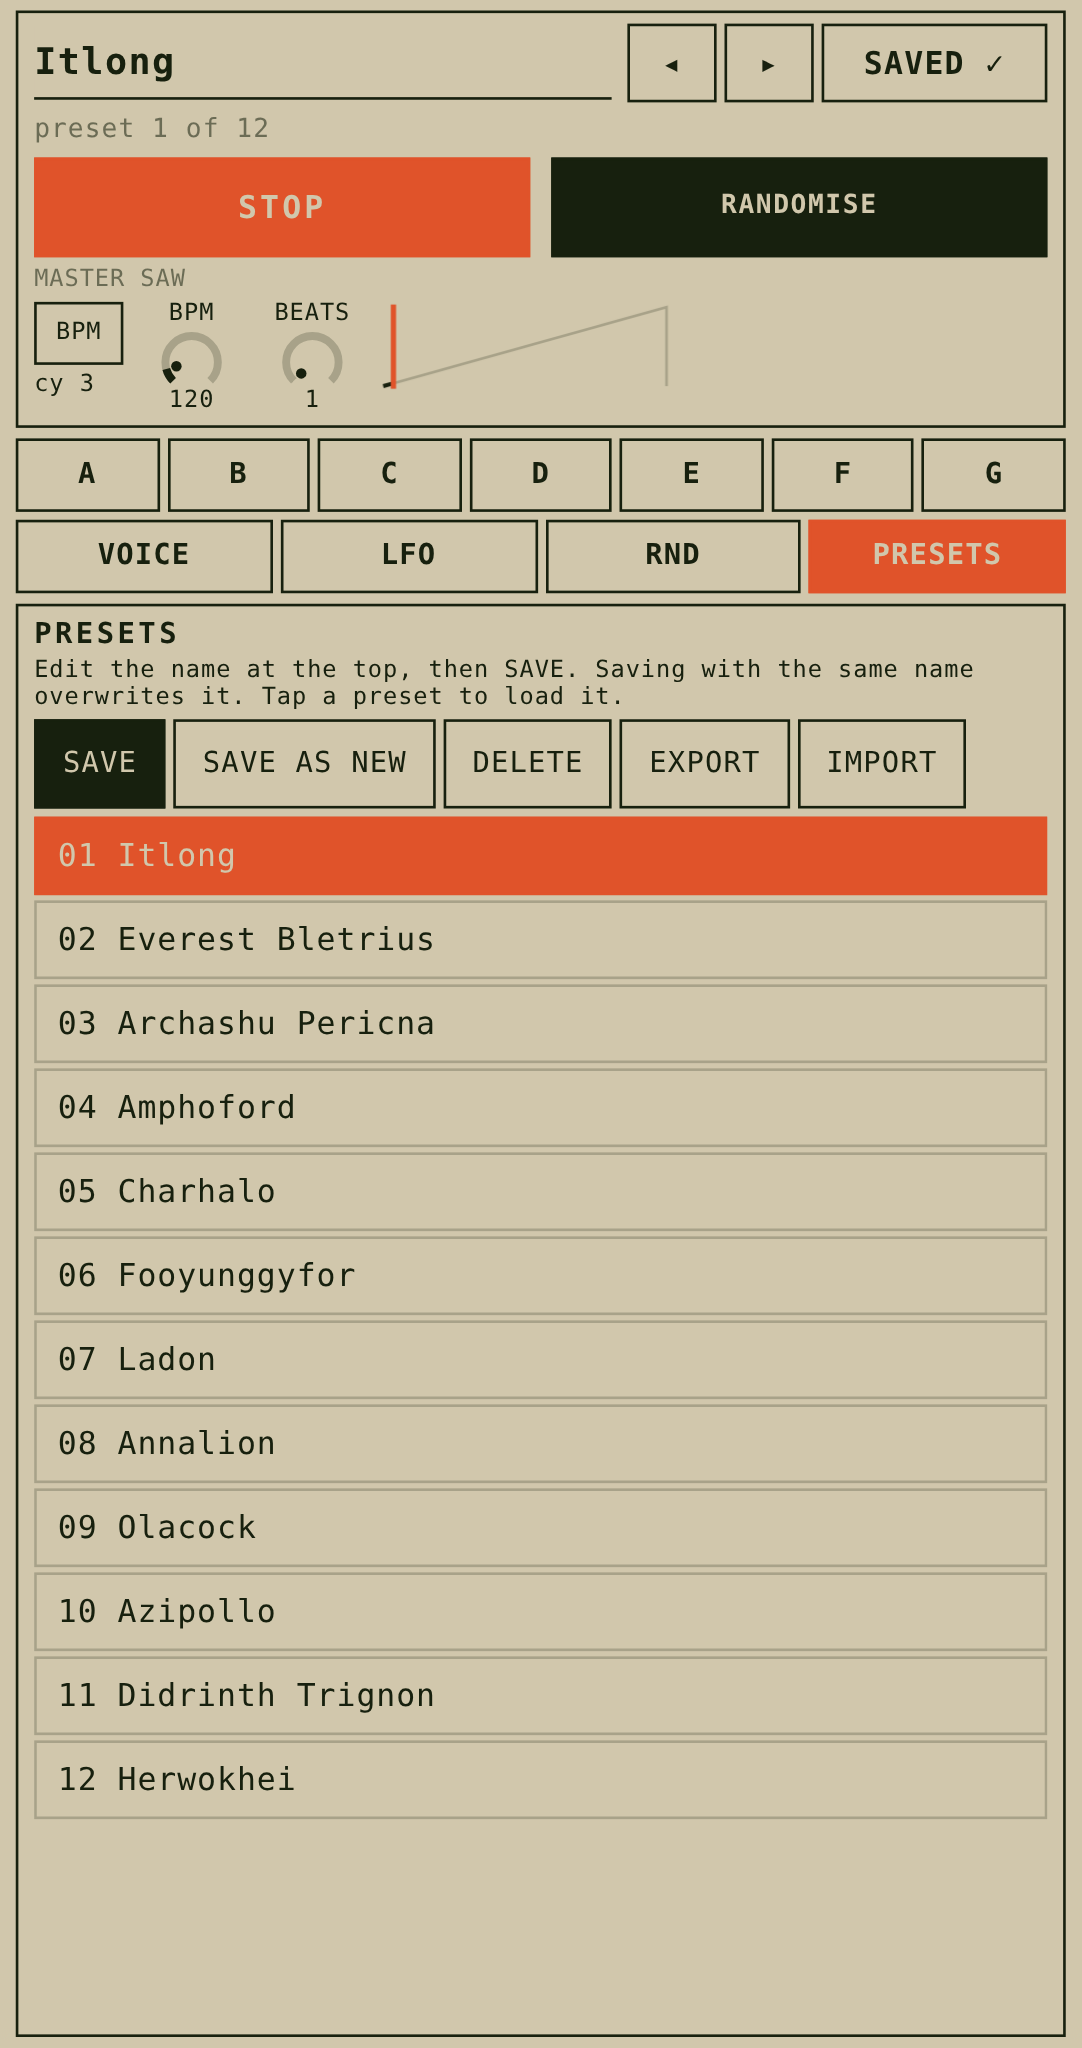
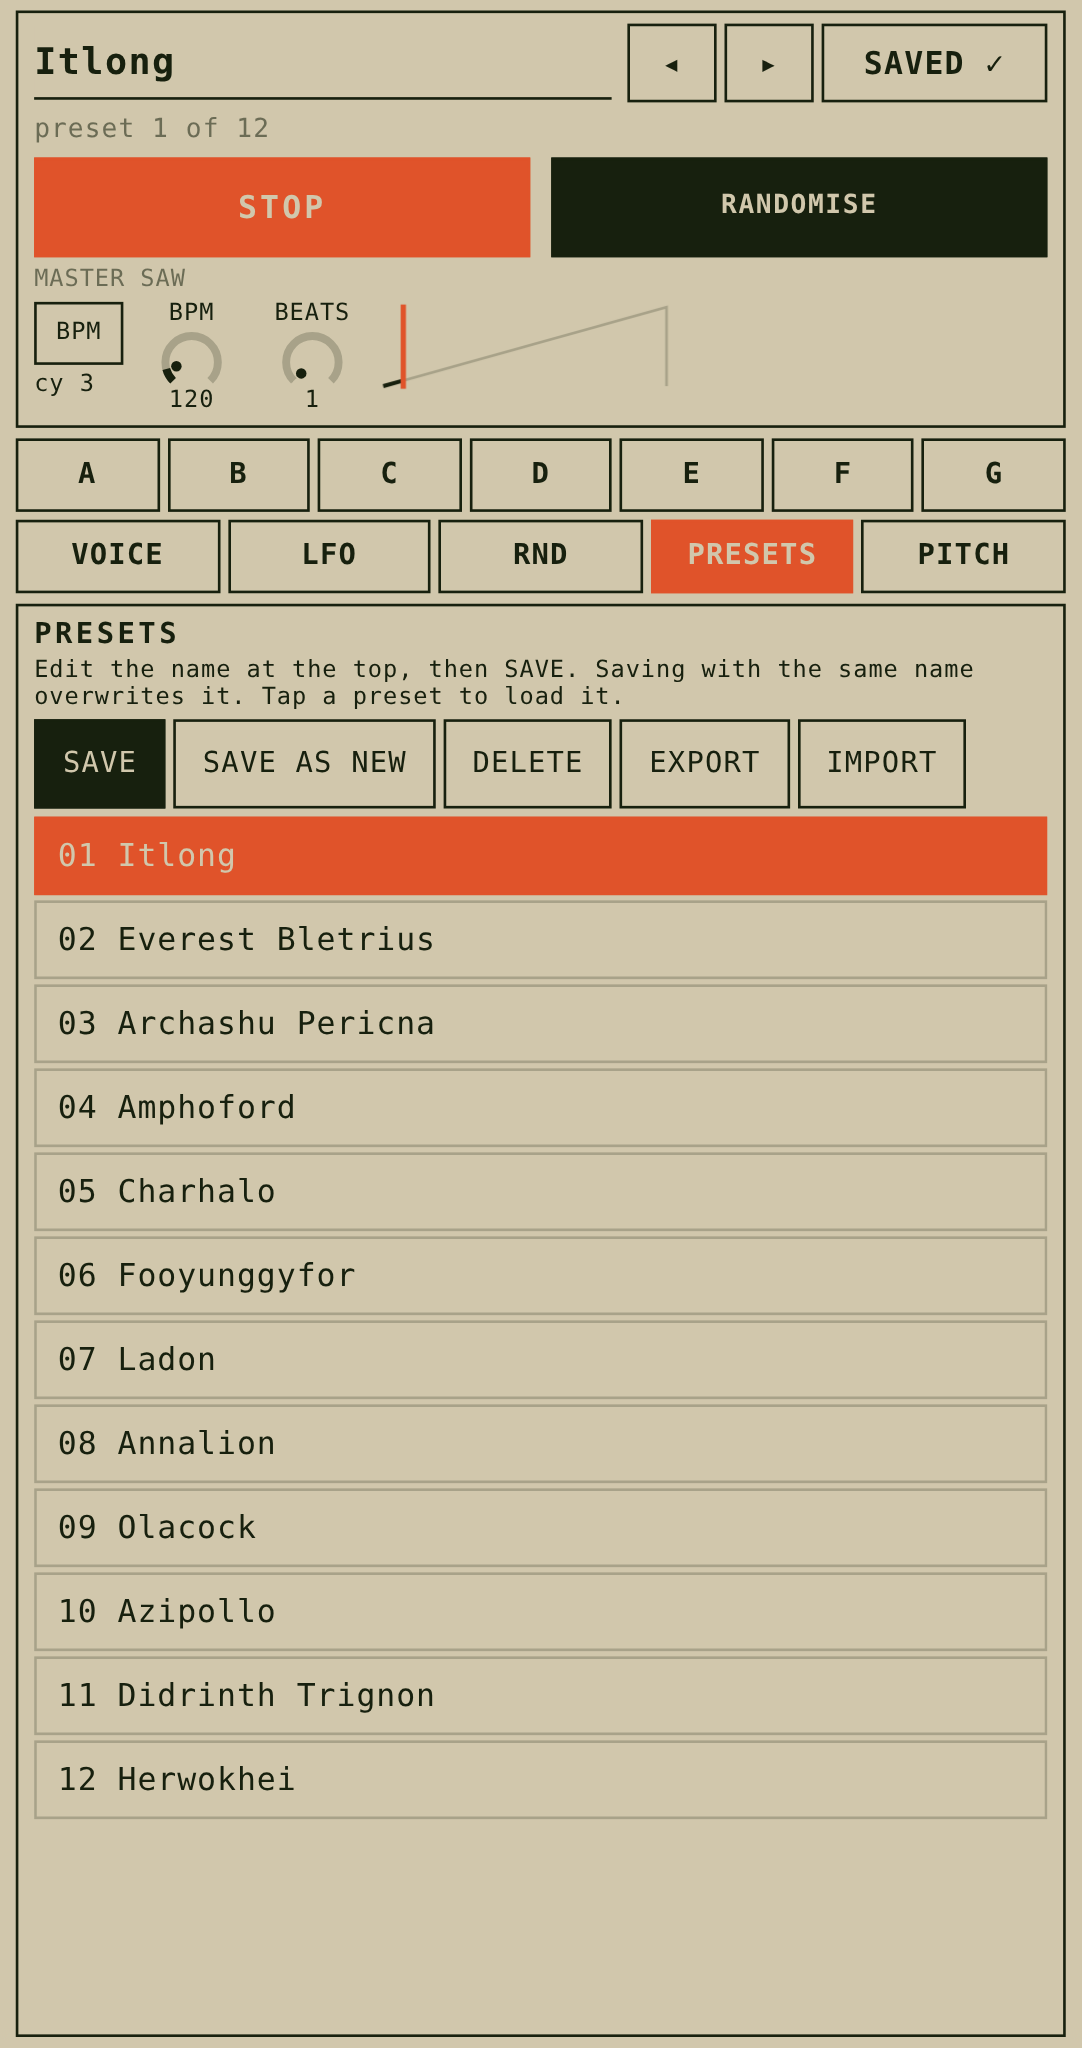
Pitch page: long-throw operator pitch faders with slew
Claude-Session: https://claude.ai/code/session_018ENZqT8uPXUg66LybqJ133

diff --git a/ui/app.js b/ui/app.js
@@ -7,7 +7,7 @@ import { SHAPES, shapeValue } from '../dsp/shapes.js';
 import { Rng, hashSeed } from '../dsp/rng.js';
 import { randomizePath, randomizeSection, fillSteps, rndLocks, rndAll, morphPatches, randomLockValue, randomizeEverything } from '../dsp/random.js';
 import { presetName } from './names.js';
-import { el, knob, selector, toggle, button, hiCanvas, toNorm, fromNorm } from './widgets.js';
+import { el, knob, selector, toggle, button, hiCanvas, toNorm, fromNorm, RATIO_STEPS } from './widgets.js';
 
 const C = { ink: '#17200e', spot: '#e0532a', dim: 'rgba(23,32,14,0.22)', faint: 'rgba(23,32,14,0.10)', bg: '#d1c7ac', mid: 'rgba(23,32,14,0.55)' };
 const NOTE = ['C', 'C#', 'D', 'D#', 'E', 'F', 'F#', 'G', 'G#', 'A', 'A#', 'B'];
@@ -178,6 +178,9 @@ const startBtn = button(top, 'START', startStop, 'space');
 startBtn.id = 'start';
 const bigRnd = button(top, 'RANDOMISE', () => randomiseAll(), 'randomise everything, ignoring locks, with a new name (R)');
 bigRnd.id = 'bigrnd';
+const pitchBtn = button(top, 'PITCH', () => { document.getElementById('app').classList.toggle('pitch-open'); refreshAll(); }, 'operator pitch faders');
+pitchBtn.id = 'pitchbtn';
+ctx.register(() => pitchBtn.classList.toggle('on', document.getElementById('app').classList.contains('pitch-open')));
 ctx.register(() => { startBtn.textContent = ui.running ? 'STOP' : 'START'; startBtn.classList.toggle('spot', ui.running); });
 el('div', 'sep', top);
 
@@ -641,10 +644,114 @@ const gateEls = Array.from({ length: MAX_STEPS }, (_, k) => {
 });
 ctx.register(() => gateEls.forEach((g, k) => { g.classList.toggle('on', !!patch.clock.gate[k]); g.classList.toggle('off-len', k >= patch.clock.gateLen); }));
 
+// ---------------- pitch faders ----------------
+const pitchEl = document.getElementById('pitch');
+pitchEl.classList.add('panel');
+const ph = el('div', 'row', pitchEl); ph.style.alignItems = 'flex-end'; ph.style.gap = '8px';
+el('div', 'title', ph, 'operator pitch');
+knob(ctx, ph, { path: 'voice.pitchSlew', label: 'slew', fmt: (v) => (v < 1 ? (v * 1000).toFixed(0) + 'ms' : v.toFixed(2) + 's') });
+ui.pitchSnap = false;
+const snapT = el('div', 'tog off', ph, 'snap');
+snapT.title = 'snap ratios to harmonic steps';
+snapT.addEventListener('pointerdown', () => { ui.pitchSnap = !ui.pitchSnap; snapT.classList.toggle('on', ui.pitchSnap); snapT.classList.toggle('off', !ui.pitchSnap); });
+button(ph, 'rnd', () => {
+  pushUndo();
+  const r = uiRng();
+  for (const op of patch.ops) {
+    if (r.next() >= patch.rnd.amount) continue;
+    if (op.ratioMode === 'fixed') op.fixedHz = Math.round(Math.exp(r.range(Math.log(40), Math.log(4000))));
+    else op.ratio = ui.pitchSnap ? RATIO_STEPS[r.int(RATIO_STEPS.length)] : Math.round(Math.exp(r.range(Math.log(0.5), Math.log(16))) * 1000) / 1000;
+  }
+  changed(true);
+}, 'randomise operator pitches (glides with slew)');
+const pHint = el('div', 'val', ph, 'drag a fader · the orange line is the gliding pitch · dbl-tap resets');
+pHint.style.color = C.mid; pHint.style.whiteSpace = 'normal';
+const faders = hiCanvas(pitchEl, 'faders');
+const RATIO_SPEC = { type: 'log', min: 0.5, max: 16 }, HZ_SPEC = { type: 'log', min: 20, max: 8000 };
+function faderSpec(i) { return patch.ops[i].ratioMode === 'fixed' ? HZ_SPEC : RATIO_SPEC; }
+function faderGeom() {
+  const w = faders._w, h = faders._h;
+  return { w, h, cw: w / NUM_OPS, top: 30, bot: h - 22 };
+}
+const faderPointers = new Map();
+function faderSet(e, col) {
+  const g = faderGeom();
+  const r = faders.getBoundingClientRect();
+  const n = (g.bot - (e.clientY - r.top)) / (g.bot - g.top);
+  const op = patch.ops[col];
+  let v = fromNorm(faderSpec(col), n);
+  if (op.ratioMode === 'fixed') { op.fixedHz = Math.round(v * 10) / 10; }
+  else {
+    if (ui.pitchSnap) v = RATIO_STEPS.reduce((b, x) => (Math.abs(Math.log(x / v)) < Math.abs(Math.log(b / v)) ? x : b), RATIO_STEPS[0]);
+    op.ratio = Math.round(v * 1000) / 1000;
+  }
+  changed(true);
+}
+faders.addEventListener('pointerdown', (e) => {
+  const r = faders.getBoundingClientRect();
+  const col = Math.max(0, Math.min(NUM_OPS - 1, Math.floor((e.clientX - r.left) / faderGeom().cw)));
+  pushUndo();
+  faderPointers.set(e.pointerId, col);
+  faders.setPointerCapture(e.pointerId);
+  faderSet(e, col);
+  e.preventDefault();
+});
+faders.addEventListener('pointermove', (e) => { if (faderPointers.has(e.pointerId)) faderSet(e, faderPointers.get(e.pointerId)); });
+const faderUp = (e) => faderPointers.delete(e.pointerId);
+faders.addEventListener('pointerup', faderUp);
+faders.addEventListener('pointercancel', faderUp);
+faders.addEventListener('dblclick', (e) => {
+  const r = faders.getBoundingClientRect();
+  const col = Math.floor((e.clientX - r.left) / faderGeom().cw);
+  const op = patch.ops[col]; if (!op) return;
+  if (op.ratioMode === 'fixed') op.fixedHz = 440; else op.ratio = defaultPatch().ops[col].ratio;
+  changed(true);
+});
+function drawFaders() {
+  const c = faders, g = c.getContext('2d'), geo = faderGeom();
+  if (!geo.w) return;
+  const dpr = c._dpr || 1;
+  g.setTransform(dpr, 0, 0, dpr, 0, 0);
+  g.fillStyle = C.bg; g.fillRect(0, 0, geo.w, geo.h);
+  const st = ui.state, live = ui.running && !!st;
+  const H = geo.bot - geo.top;
+  const nseg = Math.max(10, Math.floor(H / 5));
+  const alg = ALGORITHMS[patch.voice.algorithm];
+  g.textBaseline = 'top'; g.textAlign = 'center';
+  for (let i = 0; i < NUM_OPS; i++) {
+    const op = patch.ops[i], sp = faderSpec(i);
+    const x0 = i * geo.cw, cx = x0 + geo.cw / 2;
+    const tw = Math.min(54, geo.cw - 12);
+    const n = toNorm(sp, op.ratioMode === 'fixed' ? op.fixedHz : op.ratio);
+    for (let q = 0; q < nseg; q++) {
+      const y = geo.bot - (q + 1) * (H / nseg);
+      const on = (q + 0.5) / nseg <= n;
+      g.fillStyle = on ? C.ink : C.faint;
+      g.fillRect(cx - tw / 2, y + 1, tw, H / nseg - 1.5);
+    }
+    // the gliding pitch the engine is playing right now
+    const now = live ? st[3 + i * 6 + 5] : 0;
+    if (now > 0) {
+      const y = geo.bot - H * Math.min(1, Math.max(0, toNorm(sp, now)));
+      g.fillStyle = C.spot; g.fillRect(cx - tw / 2 - 5, y - 1.5, tw + 10, 3);
+    }
+    g.fillStyle = C.ink;
+    g.font = '700 16px ui-monospace, Menlo, monospace';
+    g.fillText(OP_NAMES[i], cx, 2);
+    g.font = '9px ui-monospace, Menlo, monospace';
+    g.fillStyle = C.mid;
+    g.fillText(alg.carriers.includes(i) ? 'carrier' : 'mod', cx, 19);
+    g.fillStyle = C.ink;
+    g.font = '11px ui-monospace, Menlo, monospace';
+    g.fillText(op.ratioMode === 'fixed' ? op.fixedHz.toFixed(0) + 'hz' : '×' + op.ratio.toFixed(op.ratio < 10 ? 3 : 2), cx, geo.bot + 6);
+  }
+  g.textAlign = 'start';
+}
+
 // ---------------- phone tabs ----------------
 for (const g of [voiceG, algoG, outG]) g.parentElement.dataset.pane = 'voice';
 const tabsEl = document.getElementById('tabs');
-const TABS = [...OP_NAMES.map((n) => [n, n]), ['voice', 'VOICE'], ['lfo', 'LFO'], ['rnd', 'RND'], ['presets', 'PRESETS']];
+const TABS = [...OP_NAMES.map((n) => [n, n]), ['voice', 'VOICE'], ['lfo', 'LFO'], ['rnd', 'RND'], ['presets', 'PRESETS'], ['pitch', 'PITCH']];
 ui.tab = store.get('tab') || 'A';
 const tabRows = [el('div', 'tabrow', tabsEl), el('div', 'tabrow', tabsEl)];
 const tabEls = TABS.map(([id, text], k) => {
@@ -658,7 +765,7 @@ function setTab(id) {
   document.querySelectorAll('[data-pane]').forEach((n) => n.classList.toggle('pane-off', n.dataset.pane !== id));
   const isOp = OP_NAMES.includes(id);
   opsEl.classList.toggle('pane-off', !isOp);
-  bottom.classList.toggle('pane-off', isOp || id === 'voice');
+  bottom.classList.toggle('pane-off', isOp || id === 'voice' || id === 'pitch');
   if (id === 'presets') renderPresetList();
   tabEls.forEach((b) => b.classList.toggle('sel', b.dataset.tab === id));
 }
@@ -832,9 +939,9 @@ function drawStrip(i) {
   g.fillStyle = C.bg; g.fillRect(0, 0, geo.w, geo.h);
   const op = patch.ops[i];
   const st = ui.state;
-  const pos = st ? st[3 + i * 5 + 1] : -1;
-  const phase = st ? st[3 + i * 5] : 0;
-  const fired = st ? st[3 + i * 5 + 2] > 0 : false;
+  const pos = st ? st[3 + i * 6 + 1] : -1;
+  const phase = st ? st[3 + i * 6] : 0;
+  const fired = st ? st[3 + i * 6 + 2] > 0 : false;
   const lane = ui.lane[i];
   const segH = 3, segGap = 1;
   const nseg = Math.max(4, Math.floor(geo.H / (segH + segGap)));
@@ -901,6 +1008,7 @@ function drawStrip(i) {
 }
 
 function frame() {
+  if (pitchEl.offsetParent !== null) drawFaders();
   if (patchDirty && node && ui.running) {
     node.port.postMessage({ type: 'patch', patch });
     patchDirty = false;
@@ -913,14 +1021,14 @@ function frame() {
   for (let i = 0; i < NUM_OPS; i++) {
     if (opUI[i].row.classList.contains('pane-off') && window.innerWidth <= 760) continue;
     drawStrip(i);
-    drawSaw(opUI[i].saw, live ? st[3 + i * 5] : 0, live);
-    const pos = live ? st[3 + i * 5 + 1] + 1 : 0;
+    drawSaw(opUI[i].saw, live ? st[3 + i * 6] : 0, live);
+    const pos = live ? st[3 + i * 6 + 1] + 1 : 0;
     opUI[i].posLbl.textContent = live ? `step ${String(pos).padStart(2, '0')}/${patch.ops[i].length}` : `${patch.ops[i].length} steps`;
   }
   const liveAlgo = live ? st[2] : -1;
   algoEls.forEach((b, k) => b.classList.toggle('live', k === liveAlgo));
   for (let m = 0; m < 4; m++) {
-    const v = live ? st[3 + NUM_OPS * 5 + m] : 0;
+    const v = live ? st[3 + NUM_OPS * 6 + m] : 0;
     modBars[m].style.left = `calc(${((v + 1) / 2 * 100).toFixed(1)}% - 1px)`;
     modBars[m].style.opacity = patch.mods[m].on ? 1 : 0.3;
   }

diff --git a/dsp/engine.js b/dsp/engine.js
@@ -35,6 +35,8 @@ export class Engine {
     // control-rate effective values
     this.levelEff = new Float64Array(NUM_OPS);
     this.ratioEff = new Float64Array(NUM_OPS);
+    this.ratioSm = new Float64Array(NUM_OPS);   // slewed ratio (pitch faders glide)
+    this.fixedSm = new Float64Array(NUM_OPS);   // slewed fixed frequency
     this.decEff = new Float64Array(NUM_OPS);
     this.seqAmtEff = new Float64Array(NUM_OPS);
     this.lockDecCoef = new Float64Array(NUM_OPS);
@@ -104,6 +106,7 @@ export class Engine {
       this.sResetCycle[i] = 0; this.drift[i] = 0; this.driftTarget[i] = 0; this.sValue[i] = 0;
       this.modVal[i] = 0; this.modTarget[i] = 0; this.modTimer[i] = 0; this.modPhase[i] = 0;
       this.effMult[i] = this.patch.ops[i].mult; this.rateMod[i] = 0;
+      this.ratioSm[i] = 0; this.fixedSm[i] = 0;
     }
     this.voice = new Voice(this.sr);
     this.tail = new Voice(this.sr);
@@ -207,6 +210,12 @@ export class Engine {
       const op = p.ops[i];
       this.levelEff[i] = clamp(op.level + mLevel[i], 0, 1);
       this.ratioEff[i] = op.ratio * Math.pow(2, mRatio[i] * 2 + op.fine / 1200);
+      // pitch slew: glide in the log (musical) domain
+      const slew = v.pitchSlew || 0;
+      const ks = slew <= 0 || !(this.ratioSm[i] > 0) ? 1 : 1 - Math.exp(-dt / slew);
+      const tr = this.ratioEff[i], tf = op.fixedHz;
+      this.ratioSm[i] = ks >= 1 ? tr : this.ratioSm[i] * Math.pow(tr / this.ratioSm[i], ks);
+      this.fixedSm[i] = ks >= 1 || !(this.fixedSm[i] > 0) ? tf : this.fixedSm[i] * Math.pow(tf / this.fixedSm[i], ks);
       this.decEff[i] = op.decay * Math.pow(2, mDecay[i] * 3);
       this.decCoef[i] = decayCoef(this.decEff[i], sr);
       this.attInc[i] = 1 / (Math.max(0.0002, op.attack) * sr);
@@ -388,9 +397,9 @@ export class Engine {
         if (amp >= 2) gain *= 0.5 * (1 + this.modVal[amp - 2]); // level follows an LFO
         this.gain[i] = gain;
         let base;
-        if (op.ratioMode === 'fixed') base = op.fixedHz * (op.dest === 2 ? fmul : 1);
+        if (op.ratioMode === 'fixed') base = this.fixedSm[i] * (op.dest === 2 ? fmul : 1);
         else {
-          const ratio = sq.lockRatio != null ? sq.lockRatio : this.ratioEff[i];
+          const ratio = sq.lockRatio != null ? sq.lockRatio : this.ratioSm[i];
           base = this.voiceHz * ratio * fmul;
         }
         this.freq[i] = base;
@@ -425,16 +434,18 @@ export class Engine {
   writeState(arr) {
     arr[0] = this.mPhase; arr[1] = this.cycle; arr[2] = this.algoEff;
     for (let i = 0; i < NUM_OPS; i++) {
-      const b = 3 + i * 5;
+      const b = 3 + i * OP_STATE;
       arr[b] = this.sPhase[i];
       arr[b + 1] = this.seqs[i].pos;
       arr[b + 2] = this.seqs[i].fired ? 1 : 0;
       arr[b + 3] = this.patch.ops[i].clock === 1 ? this.effHz[i] : this.effMult[i];
       arr[b + 4] = this.sValue[i];
+      arr[b + 5] = this.patch.ops[i].ratioMode === 'fixed' ? this.fixedSm[i] : this.ratioSm[i];
     }
-    for (let m = 0; m < 4; m++) arr[3 + NUM_OPS * 5 + m] = this.modVal[m];
+    for (let m = 0; m < 4; m++) arr[3 + NUM_OPS * OP_STATE + m] = this.modVal[m];
     return arr;
   }
 }
-export const STATE_SIZE = 3 + NUM_OPS * 5 + 4;
+export const OP_STATE = 6; // per op: phase, pos, fired, rate, seq value, current (slewed) pitch
+export const STATE_SIZE = 3 + NUM_OPS * OP_STATE + 4;
 export { MOD_TARGETS };

diff --git a/ui/style.css b/ui/style.css
@@ -100,6 +100,14 @@ canvas { display: block; }
 .jumpset .j { width: 9px; height: 8px; border: 1px solid var(--dim); cursor: pointer; }
 .jumpset .j.on { background: var(--ink); border-color: var(--ink); }
 
+/* pitch faders page */
+#pitch { display: none; flex: 1; min-height: 0; flex-direction: column; gap: 6px; }
+#app.pitch-open #ops { display: none; }
+#app.pitch-open #pitch { display: flex; }
+.faders { flex: 1; min-height: 200px; width: 100%; touch-action: none; cursor: ns-resize; }
+#pitchbtn { width: 56px; height: 44px; line-height: 42px; font-size: 11px; font-weight: 700; }
+#pitchbtn.on { background: var(--spot); border-color: var(--spot); color: var(--bg); }
+
 /* bottom */
 #bottom { display: flex; gap: 6px; height: 132px; }
 #bottom > .panel { display: flex; flex-direction: column; gap: 3px; }
@@ -149,6 +157,10 @@ canvas { display: block; }
   .tabrow { display: flex; gap: 3px; }
   #tabs .btn { flex: 1; height: 28px; line-height: 26px; font-size: 11px; font-weight: 700; padding: 0; }
   .phone-only { display: flex !important; }
+  #pitchbtn { display: none; }
+  #pitch { display: flex; flex: 1; }
+  #pitch.pane-off { display: none; }
+  .faders { min-height: 0; }
   .phone-only.pane-off { display: none !important; }
   .presetspanel { flex: 1 !important; min-height: 0; flex-direction: column; gap: 6px; }
   .presetspanel .btn { height: 34px; line-height: 32px; font-size: 11px; padding: 0 10px; }

diff --git a/dsp/params.js b/dsp/params.js
@@ -83,6 +83,7 @@ export function defaultPatch() {
       pitchMode: 'note', note: 45, hz: 110,
       pitchEnvSemis: 7, pitchEnvDecay: 0.02,
       level: 0.8, pan: 0, algorithm: 1, feedback: 0.2,
+      pitchSlew: 0.4, // seconds: operator pitch glide time
     },
     clock: {
       mode: 'bpm', bpm: 120, beats: 1, hz: 0.5,
@@ -160,6 +161,7 @@ export const PARAM_SPECS = [
   { path: 'voice.level', section: 'voice', type: 'lin', min: 0, max: 1, def: 0.7, nornd: true },
   { path: 'voice.pan', section: 'voice', type: 'lin', min: -1, max: 1, def: 0, rndScale: 0.5 },
   { path: 'voice.algorithm', section: 'voice', type: 'choice', n: 8, def: 0 },
+  { path: 'voice.pitchSlew', section: 'voice', type: 'log', min: 0.001, max: 8, def: 0.4, rndMax: 2 },
   { path: 'voice.feedback', section: 'voice', type: 'lin', min: -1, max: 1, def: 0 },
   { path: 'clock.bpm', section: 'clocks', type: 'int', min: 10, max: 999, def: 120, rndMin: 70, rndMax: 180 },
   { path: 'clock.beats', section: 'clocks', type: 'int', min: 1, max: 16, def: 4, rndMax: 8 },

diff --git a/index.html b/index.html
@@ -11,6 +11,7 @@
   <header id="top"></header>
   <nav id="tabs"></nav>
   <main id="ops"></main>
+  <section id="pitch" data-pane="pitch"></section>
   <footer id="bottom"></footer>
 </div>
 <div id="hint">space start/stop · r randomise · ctrl-s save preset · drag knobs (alt fine) · shift-click any control = rnd · dbl-click = default · steps: drag depth, right-click/long-press shape, shift-click skip, alt-click repeat · ctrl-z / ctrl-shift-z</div>

diff --git a/README.md b/README.md
@@ -27,6 +27,9 @@ with no DOM use, ready to port to C++/JUCE.
 - Presets on a phone: the name, previous/next and SAVE sit at the top of every tab. SAVE is filled when there are
   unsaved changes and reads SAVED when stored; a banner confirms each save and load. The PRESETS tab lists all
   presets (tap to load) with save as new, delete (tap twice), export and import.
+- PITCH page (PITCH button on desktop, PITCH tab on phones): seven long-throw faders for operator pitch
+  (ratio 0.5-16, or Hz for fixed operators). Pitch changes glide with the slew time; the orange line shows the
+  pitch the engine is playing right now. Snap quantises ratios to harmonic steps; multi-touch works.
 - Clock per sequencer: `link` (follows the master saw x mult, with sync/reset) or `free` (default: runs on its
   own rate in Hz, unlinked from the master and from the other sequencers). A free sequencer retriggers its own
   operator's envelope on every fired step, so each one plays as its own part.
